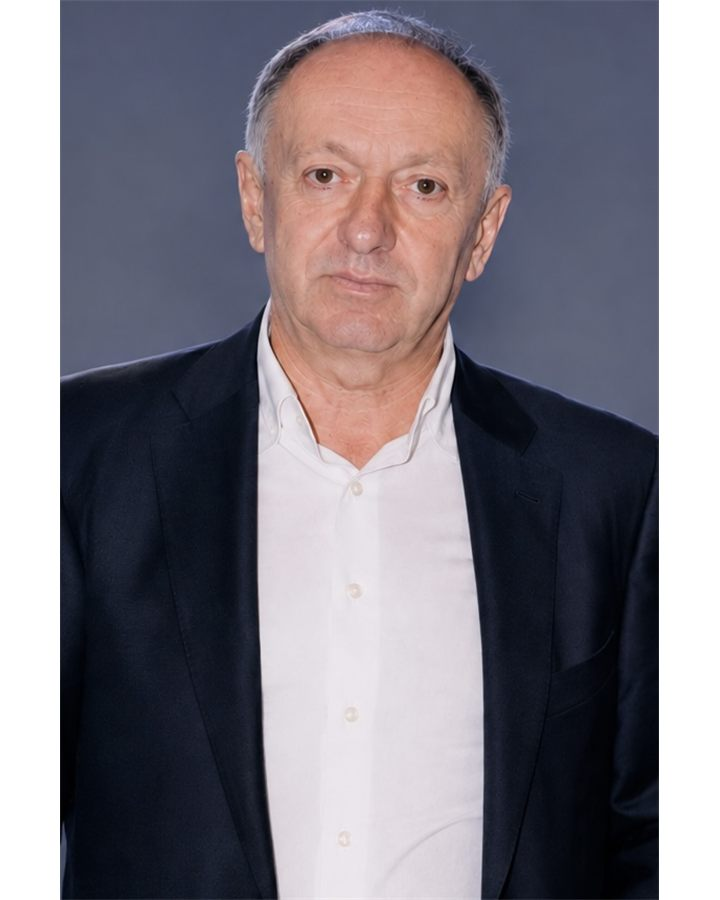
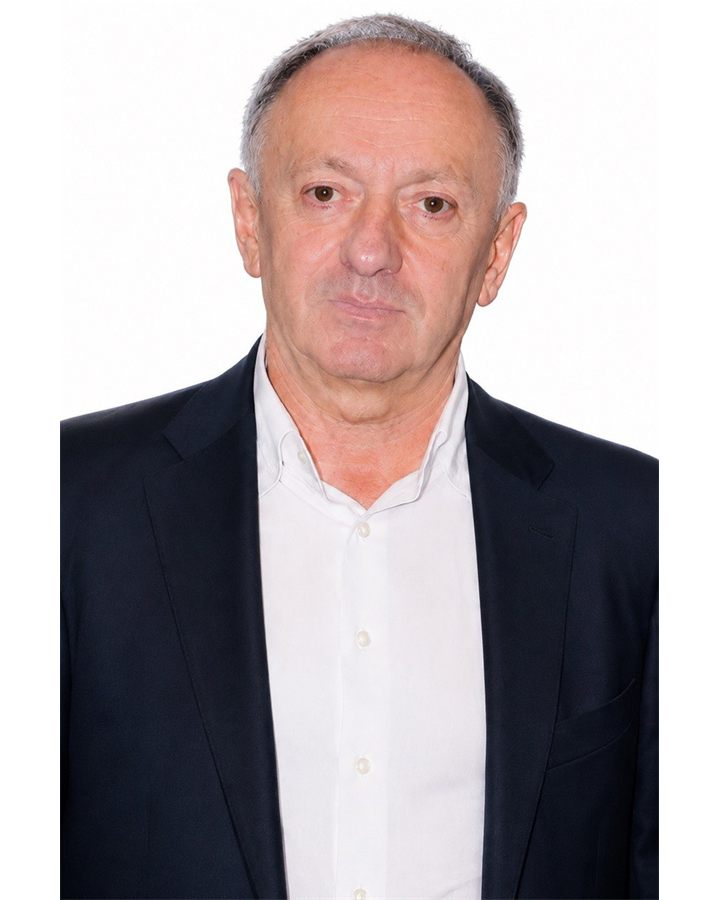
fix: publish approved Melnikov portrait

diff --git a/leadership/index.html b/leadership/index.html
@@ -1,1 +1,1 @@
-<!doctype html><html lang="ru"><head><meta charset="utf-8"><meta name="viewport" content="width=device-width,initial-scale=1"><title>Руководство — ФЕНКА</title><link rel="stylesheet" href="/shared/site-shell.css"><link rel="stylesheet" href="/shared/leadership-photos.css?v=20261114-profiles"></head><body><header class="global-header"><a class="global-brand" href="/"><img src="/fenka-logo-official.png" alt="ФЕНКА"></a><button class="global-menu-button" data-menu-toggle aria-expanded="false" aria-controls="siteNavigation"><span></span><span></span><span></span></button><nav class="global-nav" id="siteNavigation"><div class="global-nav-group"><button data-about-toggle aria-expanded="false" aria-controls="aboutMenu">О ФЕНКА</button><div class="global-submenu" id="aboutMenu" data-about-menu><a href="/about/">О ФЕНКА</a><a href="/leadership/" aria-current="page">Руководство</a><a href="/documents/">Документы</a><a href="/reports/">Отчётность</a></div></div><a href="/regions/">Регионы</a><a href="/projects/">Проекты</a><a href="/youth/">МолДеп</a><a href="/events/">События</a><a href="/media/">Медиатека</a><a href="/news/">Новости</a><a href="/contacts/">Контакты</a><a href="/support/">Помочь</a></nav></header><main id="main"><section class="section-hero section-hero--leadership"><div class="section-shell"><nav class="breadcrumbs"><a href="/">Главная</a><span>—</span><span>Руководство</span></nav><h1>Руководство и Совет ФЕНКА</h1></div></section><section class="section-content leadership-section"><div class="section-shell"><section class="leadership-featured" aria-label="Руководство ФЕНКА"><article class="leadership-card" data-leadership-id="melnikov"><div class="leadership-card__portrait leadership-card__portrait--melnikov"><img src="/leadership-photos/optimized/sergey-melnikov.jpg" alt="Мельников Сергей Евгеньевич" width="720" height="900" loading="eager" fetchpriority="high" decoding="async"></div><div class="leadership-card__content"><p class="leadership-card__number">01</p><p class="leadership-card__role">Президент</p><h3>Мельников Сергей Евгеньевич</h3><div class="leadership-card__contacts"><a href="mailto:info@fenkar.ru">info@fenkar.ru</a></div><button class="leadership-card__open" type="button" aria-label="Подробнее о Мельников Сергей Евгеньевич">Подробнее <span aria-hidden="true">→</span></button></div></article><article class="leadership-card" data-leadership-id="dabakarov"><div class="leadership-card__portrait leadership-card__portrait--dabakarov"><img src="/leadership-photos/optimized/igor-dabakarov.jpg" alt="Дабакаров Игорь Амнерович" width="720" height="900" loading="lazy" decoding="async"></div><div class="leadership-card__content"><p class="leadership-card__number">02</p><p class="leadership-card__role">Исполнительный Вице-президент</p><h3>Дабакаров Игорь Амнерович</h3><div class="leadership-card__contacts"><a href="mailto:ilezer@mail.ru">ilezer@mail.ru</a><a href="tel:+79603727613">+7 (960) 372-76-13</a></div><button class="leadership-card__open" type="button" aria-label="Подробнее о Дабакаров Игорь Амнерович">Подробнее <span aria-hidden="true">→</span></button></div></article></section><div class="leadership-divider"><span>Совет ФЕНКА</span><b>12 членов</b></div><section class="leadership-grid" aria-label="Члены Совета ФЕНКА"><article class="leadership-card" data-leadership-id="boroda"><div class="leadership-card__portrait leadership-card__portrait--boroda"><img src="/leadership-photos/optimized/alexander-boroda.jpg" alt="Борода Александр Моисеевич" width="720" height="900" loading="lazy" decoding="async"></div><div class="leadership-card__content"><p class="leadership-card__number">04</p><p class="leadership-card__role">Вице-президент</p><h3>Борода Александр Моисеевич</h3><div class="leadership-card__contacts"><a href="mailto:info@fenkar.ru">info@fenkar.ru</a></div><button class="leadership-card__open" type="button" aria-label="Подробнее о Борода Александр Моисеевич">Подробнее <span aria-hidden="true">→</span></button></div></article><article class="leadership-card" data-leadership-id="golukhov"><div class="leadership-card__portrait leadership-card__portrait--golukhov"><img src="/leadership-photos/optimized/georgy-golukhov.jpg" alt="Голухов Георгий Натанович" width="720" height="900" loading="lazy" decoding="async"></div><div class="leadership-card__content"><p class="leadership-card__number">05</p><p class="leadership-card__role">Вице-президент</p><h3>Голухов Георгий Натанович</h3><div class="leadership-card__contacts"><a href="mailto:info@fenkar.ru">info@fenkar.ru</a></div><button class="leadership-card__open" type="button" aria-label="Подробнее о Голухов Георгий Натанович">Подробнее <span aria-hidden="true">→</span></button></div></article><article class="leadership-card" data-leadership-id="zakharyaev"><div class="leadership-card__portrait leadership-card__portrait--zakharyaev"><img src="/leadership-photos/optimized/german-zakharyaev.jpg" alt="Захарьяев Герман Рашбилович" width="720" height="900" loading="lazy" decoding="async"></div><div class="leadership-card__content"><p class="leadership-card__number">03</p><p class="leadership-card__role">Вице-президент</p><h3>Захарьяев Герман Рашбилович</h3><div class="leadership-card__contacts"><a href="mailto:9261315959@bk.ru">9261315959@bk.ru</a><a href="tel:89261315959">8 (926) 131-59-59</a></div><button class="leadership-card__open" type="button" aria-label="Подробнее о Захарьяев Герман Рашбилович">Подробнее <span aria-hidden="true">→</span></button></div></article><article class="leadership-card" data-leadership-id="goldin"><div class="leadership-card__portrait leadership-card__portrait--goldin"><img src="/leadership-photos/optimized/mark-goldin.jpg" alt="Гольдин Марк Эльевич" width="720" height="900" loading="lazy" decoding="async"></div><div class="leadership-card__content"><p class="leadership-card__number">06</p><p class="leadership-card__role">Член Совета</p><h3>Гольдин Марк Эльевич</h3><div class="leadership-card__contacts"><a href="mailto:hesed-izhevsk@mail.ru">hesed-izhevsk@mail.ru</a><a href="tel:83412637778">8 (3412) 63-77-78</a></div><button class="leadership-card__open" type="button" aria-label="Подробнее о Гольдин Марк Эльевич">Подробнее <span aria-hidden="true">→</span></button></div></article><article class="leadership-card" data-leadership-id="oshtrakh"><div class="leadership-card__portrait leadership-card__portrait--oshtrakh"><img src="/leadership-photos/optimized/mikhail-oshtrakh.jpg" alt="Оштрах Михаил Иосифович" width="720" height="900" loading="lazy" decoding="async"></div><div class="leadership-card__content"><p class="leadership-card__number">07</p><p class="leadership-card__role">Член Совета</p><h3>Оштрах Михаил Иосифович</h3><div class="leadership-card__contacts"><a href="mailto:oshtrakh@gmail.com">oshtrakh@gmail.com</a><a href="tel:83433598309">8 (343) 359-83-09</a></div><button class="leadership-card__open" type="button" aria-label="Подробнее о Оштрах Михаил Иосифович">Подробнее <span aria-hidden="true">→</span></button></div></article><article class="leadership-card" data-leadership-id="engel"><div class="leadership-card__portrait" aria-hidden="true"><span>ЭВ</span></div><div class="leadership-card__content"><p class="leadership-card__number">08</p><p class="leadership-card__role">Член Совета</p><h3>Энгель Виктория Михайловна</h3><div class="leadership-card__contacts"><a href="mailto:vm.engel@mail.ru">vm.engel@mail.ru</a><a href="tel:84953090011704">8 (495) 309-00-11 доб. 704</a></div><button class="leadership-card__open" type="button" aria-label="Подробнее о Энгель Виктория Михайловна">Подробнее <span aria-hidden="true">→</span></button></div></article><article class="leadership-card" data-leadership-id="katsnelson"><div class="leadership-card__portrait leadership-card__portrait--katsnelson"><img src="/leadership-photos/optimized/gennady-katsnelson.jpg" alt="Кацнельсон Геннадий Борисович" width="720" height="900" loading="lazy" decoding="async"></div><div class="leadership-card__content"><p class="leadership-card__number">09</p><p class="leadership-card__role">Член Совета</p><h3>Кацнельсон Геннадий Борисович</h3><div class="leadership-card__contacts"><a href="mailto:info@fenkar.ru">info@fenkar.ru</a></div><button class="leadership-card__open" type="button" aria-label="Подробнее о Кацнельсон Геннадий Борисович">Подробнее <span aria-hidden="true">→</span></button></div></article><article class="leadership-card" data-leadership-id="yusfin"><div class="leadership-card__portrait leadership-card__portrait--yusfin"><img src="/leadership-photos/optimized/elena-yusfin.jpg" alt="Юсфин Елена Леонидовна" width="720" height="900" loading="lazy" decoding="async"></div><div class="leadership-card__content"><p class="leadership-card__number">10</p><p class="leadership-card__role">Член Совета</p><h3>Юсфин Елена Леонидовна</h3><div class="leadership-card__contacts"><a href="mailto:fenka613@gmail.ru">fenka613@gmail.ru</a></div><button class="leadership-card__open" type="button" aria-label="Подробнее о Юсфин Елена Леонидовна">Подробнее <span aria-hidden="true">→</span></button></div></article><article class="leadership-card" data-leadership-id="veysman"><div class="leadership-card__portrait leadership-card__portrait--veysman"><img src="/leadership-photos/optimized/irina-veysman.jpg" alt="Вейсман Ирина Зиновьевна" width="720" height="900" loading="lazy" decoding="async"></div><div class="leadership-card__content"><p class="leadership-card__number">11</p><p class="leadership-card__role">Член Совета</p><h3>Вейсман Ирина Зиновьевна</h3><div class="leadership-card__contacts"><a href="mailto:irinaveis@mail.ru">irinaveis@mail.ru</a><a href="tel:+79271341667">+7 927 134-16-67</a></div><button class="leadership-card__open" type="button" aria-label="Подробнее о Вейсман Ирина Зиновьевна">Подробнее <span aria-hidden="true">→</span></button></div></article><article class="leadership-card" data-leadership-id="litvak"><div class="leadership-card__portrait leadership-card__portrait--litvak"><img src="/leadership-photos/optimized/igor-litvak.jpg" alt="Литвак Игорь Маркович" width="720" height="900" loading="lazy" decoding="async"></div><div class="leadership-card__content"><p class="leadership-card__number">12</p><p class="leadership-card__role">Член Совета</p><h3>Литвак Игорь Маркович</h3><div class="leadership-card__contacts"><a href="mailto:info@fenkar.ru">info@fenkar.ru</a></div><button class="leadership-card__open" type="button" aria-label="Подробнее о Литвак Игорь Маркович">Подробнее <span aria-hidden="true">→</span></button></div></article><article class="leadership-card" data-leadership-id="tipikin"><div class="leadership-card__portrait leadership-card__portrait--tipikin"><img src="/leadership-photos/optimized/pavel-tipikin.jpg" alt="Типикин Павел Николаевич" width="720" height="900" loading="lazy" decoding="async"></div><div class="leadership-card__content"><p class="leadership-card__number">13</p><p class="leadership-card__role">Член Совета</p><h3>Типикин Павел Николаевич</h3><div class="leadership-card__contacts"><a href="mailto:info@fenkar.ru">info@fenkar.ru</a></div><button class="leadership-card__open" type="button" aria-label="Подробнее о Типикин Павел Николаевич">Подробнее <span aria-hidden="true">→</span></button></div></article><article class="leadership-card" data-leadership-id="shalmiev"><div class="leadership-card__portrait leadership-card__portrait--shalmiev"><img src="/leadership-photos/optimized/erukhom-shalmiev.jpg" alt="Шальмиев Ерухом Илизирович" width="720" height="900" loading="lazy" decoding="async"></div><div class="leadership-card__content"><p class="leadership-card__number">14</p><p class="leadership-card__role">Член Совета</p><h3>Шальмиев Ерухом Илизирович</h3><div class="leadership-card__contacts"><a href="mailto:info@fenkar.ru">info@fenkar.ru</a></div><button class="leadership-card__open" type="button" aria-label="Подробнее о Шальмиев Ерухом Илизирович">Подробнее <span aria-hidden="true">→</span></button></div></article></section></div></section></main><footer class="global-footer"><div><img src="/fenka-logo-official.png" alt="ФЕНКА"><p>Люди. Культура. Развитие.</p></div><nav><a href="/regions/">Регионы</a><a href="/leadership/">Руководство</a><a href="/documents/">Документы</a><a href="/reports/">Отчётность</a><a href="/about/">О ФЕНКА</a><a href="/projects/">Проекты</a><a href="/youth/">Молодёжный департамент ФЕНКА</a><a href="/events/">События</a><a href="/media/">Медиатека</a><a href="/news/">Новости</a><a href="/support/">Помочь</a><a href="/contacts/">Контакты</a><a href="/privacy/">Политика конфиденциальности</a></nav><div class="global-footer__social"><strong>Социальные сети</strong><a href="https://vk.ru/fenkarus?ysclid=mue1bx5o93573807833" target="_blank" rel="noopener noreferrer">ВКонтакте</a><a href="https://t.me/fenkarus" target="_blank" rel="noopener noreferrer">Telegram</a><a href="https://max.ru/join/t1856SKfg2tv8TdYnIjARxurVWQK_ATuRZmt5hLfPoo" target="_blank" rel="noopener noreferrer">MAX</a></div></footer><script src="/shared/site-shell.js"></script><dialog class="leadership-profile" id="leadershipProfileDialog" aria-labelledby="leadershipProfileName"><div class="leadership-profile__shell"><button class="leadership-profile__close" type="button" data-profile-close aria-label="Закрыть">×</button><aside class="leadership-profile__aside"><div class="leadership-profile__portrait" data-profile-portrait><img alt="" width="720" height="900"><span aria-hidden="true"></span></div><p class="leadership-profile__role" data-profile-role></p></aside><article class="leadership-profile__body"><p class="leadership-profile__eyebrow">Руководство ФЕНКА</p><h2 id="leadershipProfileName"></h2><section class="leadership-profile__statement" data-profile-statement hidden><p class="leadership-profile__statement-label">Слово президента</p><blockquote></blockquote></section><div class="leadership-profile__biography" data-profile-biography></div><div class="leadership-profile__contacts" data-profile-contacts></div></article></div></dialog><script type="application/json" id="leadershipProfilesData">{"melnikov":{"name":"Мельников Сергей Евгеньевич","role":"Президент","email":"info@fenkar.ru","phone":"","statement":"Сохраняя многовековые традиции еврейского народа, мы не просто бережём прошлое — мы закладываем фундамент будущего. Наша миссия — объединять поколения, укреплять общины и создавать новые возможности для развития еврейской жизни в России. Ведь народ силён, пока жива его память, крепко его единство и есть кому продолжить его дело.","biography":["Мельников Сергей Евгеньевич родился 22 августа 1959 года в г. Москве.","В 1976 году поступил в Московский химико-технологический институт им. Д. И. Менделеева на факультет неорганической химии, который окончил в 1982 году и поступил на работу на опытный завод НИУИФ, где прошёл путь от мастера смены до заместителя начальника цеха по производству удобрений.","В 1988 году поступил в Академию внешней торговли и после её окончания перешёл на работу в Союзагрохимэкспорт. Одновременно в 1988 году защитил диссертацию и получил звание кандидата технических наук.","В Союзагрохимэкспорте прошёл путь от старшего инженера фирмы «Карбамид» до её директора, а позже стал заместителем генерального директора. Работал в Австрии генеральным директором фирмы «Уритранс».","Является действительным членом Международной академии наук, экологии, безопасности человека и природы. Свободно владеет английским языком.","С 2023 года является Президентом общественной организации «Федеральная еврейская национально-культурная автономия» (ОО «ФЕНКА») и членом Совета при Президенте Российской Федерации по межнациональным отношениям."]},"dabakarov":{"name":"Дабакаров Игорь Амнерович","role":"Исполнительный Вице-президент","email":"ilezer@mail.ru","phone":"+7 (960) 372-76-13","biography":["Член Совета ФЕНКА, Генеральный директор, Председатель Правления Ульяновской РЕНКА.","Родился 2 сентября 1975г. в г.Самарканде.","В 1996 году создал Ульяновскую городскую общественную организацию — еврейский молодёжный клуб «Мишпаха Гдола». В 1997 году зарегистрировал и по сей день является президентом этой организации.","С 2000 года является председателем правления Ульяновской еврейской культурно-просветительской общественной организации «Шалом». С 2004 года избран председателем правления Ульяновской региональной еврейской национально-культурной автономии.","С 2010 года — Президент Российского еврейского молодёжного конгресса. За успешную работу по организации еврейской жизни неоднократно награждался премиями Американского еврейского распределительного комитета «Джоинт», «Банчер», Федерации еврейских общин России, награждён премией Чарльза Хоффана как лучший руководитель еврейской общины России.","Является членом Совета по делам национальностей при Губернаторе Ульяновской области, членом Генеральной Ассамблеи Евроазиатского еврейского конгресса, депутатом Европейского еврейского парламента, членом Общественной палаты Ульяновской области, членом Совета и Генеральным директором ФЕНКА.","Воспитывает троих детей."]},"zakharyaev":{"name":"Захарьяев Герман Рашбилович","role":"Вице-президент","email":"9261315959@bk.ru","phone":"8 (926) 131-59-59","biography":["Герман Рашбилович Захарьяев — известный бизнесмен и меценат, вице-президент Всемирного конгресса горских евреев, президент Международного благотворительного фонда горских евреев СТМЭГИ.","Родился 7 июля 1971 года в поселке Красная (Еврейская) Слобода, г. Куба, в Азербайджане. В начале 1990-х годов переехал в Москву.","Окончил Российскую академию народного хозяйства и государственной службы при Президенте РФ. Защитил диссертацию по теме «Эволюция религиозно-теологической концепции хасидизма» и получил степень кандидата философских наук.","В августе 2001 года семьёй Захарьяевых был создан и зарегистрирован Региональный общественный фонд горских евреев СТМЭГИ. Цель фонда — продвижение проектов, направленных на развитие общинной жизни, сохранение и укрепление традиций горских евреев.","На базе фонда появился Международный благотворительный фонд горских евреев, поддерживающий общинную жизнь во многих странах. Представительства СТМЭГИ работают в России, Израиле, Азербайджане и США.","При поддержке Германа Захарьяева произведения Шолом-Алейхема были изданы на азербайджанском языке. В 2011 году при его активном участии была создана первая социальная сеть горских евреев.","Герман Захарьяев выступил инициатором внесения в еврейский календарь памятной даты «Йом шихрур вэ ацала» — Дня спасения и освобождения. Женат, воспитывает четверых детей."]},"boroda":{"name":"Борода Александр Моисеевич","role":"Вице-президент","email":"info@fenkar.ru","phone":"","biography":[]},"golukhov":{"name":"Голухов Георгий Натанович","role":"Вице-президент","email":"info@fenkar.ru","phone":"","biography":["Родился 24 июня 1960 года в городе Москва.","В 1983 году окончил 2-й Московский ордена Ленина государственный медицинский институт им. Н. И. Пирогова, а в 2002 году — Академию народного хозяйства при Правительстве Российской Федерации.","С 1988 по 2012 год — главный врач Городской клинической больницы № 31 Департамента здравоохранения города Москвы.","С мая 2012 по октябрь 2014 года — Министр Правительства Москвы, руководитель Департамента здравоохранения города Москвы. С октября 2014 по январь 2015 года — президент Научно-исследовательского института организации здравоохранения и медицинского менеджмента Департамента здравоохранения города Москвы.","С января 2015 года — президент Городской клинической больницы № 31. Доктор медицинских наук, профессор, член-корреспондент Российской академии наук, полковник медицинской службы.","Награждён Орденом Дружбы, медалью «В память 850-летия Москвы», Золотым Почётным знаком «Общественное признание», знаком «Отличник здравоохранения» и другими наградами. Автор 103 печатных работ, в том числе 11 монографий."]},"goldin":{"name":"Гольдин Марк Эльевич","role":"Член Совета","email":"hesed-izhevsk@mail.ru","phone":"8 (3412) 63-77-78","biography":["Президент ЕНКА Удмуртской Республики."]},"oshtrakh":{"name":"Оштрах Михаил Иосифович","role":"Член Совета","email":"oshtrakh@gmail.com","phone":"8 (343) 359-83-09","biography":["Президент ЕНКА Свердловской области"]},"engel":{"name":"Энгель Виктория Михайловна","role":"Член Совета","email":"vm.engel@mail.ru","phone":"8 (495) 309-00-11 доб. 704","biography":[]},"katsnelson":{"name":"Кацнельсон Геннадий Борисович","role":"Член Совета","email":"info@fenkar.ru","phone":"","biography":["Крупный предприниматель, который руководит многопрофильным бизнесом в Самаре и Самарской области. Также известен своей благотворительной деятельностью."]},"yusfin":{"name":"Юсфин Елена Леонидовна","role":"Член Совета","email":"fenka613@gmail.ru","phone":"","biography":[]},"veysman":{"name":"Вейсман Ирина Зиновьевна","role":"Член Совета","email":"irinaveis@mail.ru","phone":"+7 927 134-16-67","biography":[]},"litvak":{"name":"Литвак Игорь Маркович","role":"Член Совета","email":"info@fenkar.ru","phone":"","biography":[]},"tipikin":{"name":"Типикин Павел Николаевич","role":"Член Совета","email":"info@fenkar.ru","phone":"","biography":[]},"shalmiev":{"name":"Шальмиев Ерухом Илизирович","role":"Член Совета","email":"info@fenkar.ru","phone":"","biography":[]}}</script><script src="/shared/leadership-profiles.js?v=20261114-profiles"></script></body></html>
+<!doctype html><html lang="ru"><head><meta charset="utf-8"><meta name="viewport" content="width=device-width,initial-scale=1"><title>Руководство — ФЕНКА</title><link rel="stylesheet" href="/shared/site-shell.css"><link rel="stylesheet" href="/shared/leadership-photos.css?v=20261114-profiles"></head><body><header class="global-header"><a class="global-brand" href="/"><img src="/fenka-logo-official.png" alt="ФЕНКА"></a><button class="global-menu-button" data-menu-toggle aria-expanded="false" aria-controls="siteNavigation"><span></span><span></span><span></span></button><nav class="global-nav" id="siteNavigation"><div class="global-nav-group"><button data-about-toggle aria-expanded="false" aria-controls="aboutMenu">О ФЕНКА</button><div class="global-submenu" id="aboutMenu" data-about-menu><a href="/about/">О ФЕНКА</a><a href="/leadership/" aria-current="page">Руководство</a><a href="/documents/">Документы</a><a href="/reports/">Отчётность</a></div></div><a href="/regions/">Регионы</a><a href="/projects/">Проекты</a><a href="/youth/">МолДеп</a><a href="/events/">События</a><a href="/media/">Медиатека</a><a href="/news/">Новости</a><a href="/contacts/">Контакты</a><a href="/support/">Помочь</a></nav></header><main id="main"><section class="section-hero section-hero--leadership"><div class="section-shell"><nav class="breadcrumbs"><a href="/">Главная</a><span>—</span><span>Руководство</span></nav><h1>Руководство и Совет ФЕНКА</h1></div></section><section class="section-content leadership-section"><div class="section-shell"><section class="leadership-featured" aria-label="Руководство ФЕНКА"><article class="leadership-card" data-leadership-id="melnikov"><div class="leadership-card__portrait leadership-card__portrait--melnikov"><img src="/leadership-photos/optimized/sergey-melnikov.jpg?v=20261114-melnikov2" alt="Мельников Сергей Евгеньевич" width="720" height="900" loading="eager" fetchpriority="high" decoding="async"></div><div class="leadership-card__content"><p class="leadership-card__number">01</p><p class="leadership-card__role">Президент</p><h3>Мельников Сергей Евгеньевич</h3><div class="leadership-card__contacts"><a href="mailto:info@fenkar.ru">info@fenkar.ru</a></div><button class="leadership-card__open" type="button" aria-label="Подробнее о Мельников Сергей Евгеньевич">Подробнее <span aria-hidden="true">→</span></button></div></article><article class="leadership-card" data-leadership-id="dabakarov"><div class="leadership-card__portrait leadership-card__portrait--dabakarov"><img src="/leadership-photos/optimized/igor-dabakarov.jpg" alt="Дабакаров Игорь Амнерович" width="720" height="900" loading="lazy" decoding="async"></div><div class="leadership-card__content"><p class="leadership-card__number">02</p><p class="leadership-card__role">Исполнительный Вице-президент</p><h3>Дабакаров Игорь Амнерович</h3><div class="leadership-card__contacts"><a href="mailto:ilezer@mail.ru">ilezer@mail.ru</a><a href="tel:+79603727613">+7 (960) 372-76-13</a></div><button class="leadership-card__open" type="button" aria-label="Подробнее о Дабакаров Игорь Амнерович">Подробнее <span aria-hidden="true">→</span></button></div></article></section><div class="leadership-divider"><span>Совет ФЕНКА</span><b>12 членов</b></div><section class="leadership-grid" aria-label="Члены Совета ФЕНКА"><article class="leadership-card" data-leadership-id="boroda"><div class="leadership-card__portrait leadership-card__portrait--boroda"><img src="/leadership-photos/optimized/alexander-boroda.jpg" alt="Борода Александр Моисеевич" width="720" height="900" loading="lazy" decoding="async"></div><div class="leadership-card__content"><p class="leadership-card__number">04</p><p class="leadership-card__role">Вице-президент</p><h3>Борода Александр Моисеевич</h3><div class="leadership-card__contacts"><a href="mailto:info@fenkar.ru">info@fenkar.ru</a></div><button class="leadership-card__open" type="button" aria-label="Подробнее о Борода Александр Моисеевич">Подробнее <span aria-hidden="true">→</span></button></div></article><article class="leadership-card" data-leadership-id="golukhov"><div class="leadership-card__portrait leadership-card__portrait--golukhov"><img src="/leadership-photos/optimized/georgy-golukhov.jpg" alt="Голухов Георгий Натанович" width="720" height="900" loading="lazy" decoding="async"></div><div class="leadership-card__content"><p class="leadership-card__number">05</p><p class="leadership-card__role">Вице-президент</p><h3>Голухов Георгий Натанович</h3><div class="leadership-card__contacts"><a href="mailto:info@fenkar.ru">info@fenkar.ru</a></div><button class="leadership-card__open" type="button" aria-label="Подробнее о Голухов Георгий Натанович">Подробнее <span aria-hidden="true">→</span></button></div></article><article class="leadership-card" data-leadership-id="zakharyaev"><div class="leadership-card__portrait leadership-card__portrait--zakharyaev"><img src="/leadership-photos/optimized/german-zakharyaev.jpg" alt="Захарьяев Герман Рашбилович" width="720" height="900" loading="lazy" decoding="async"></div><div class="leadership-card__content"><p class="leadership-card__number">03</p><p class="leadership-card__role">Вице-президент</p><h3>Захарьяев Герман Рашбилович</h3><div class="leadership-card__contacts"><a href="mailto:9261315959@bk.ru">9261315959@bk.ru</a><a href="tel:89261315959">8 (926) 131-59-59</a></div><button class="leadership-card__open" type="button" aria-label="Подробнее о Захарьяев Герман Рашбилович">Подробнее <span aria-hidden="true">→</span></button></div></article><article class="leadership-card" data-leadership-id="goldin"><div class="leadership-card__portrait leadership-card__portrait--goldin"><img src="/leadership-photos/optimized/mark-goldin.jpg" alt="Гольдин Марк Эльевич" width="720" height="900" loading="lazy" decoding="async"></div><div class="leadership-card__content"><p class="leadership-card__number">06</p><p class="leadership-card__role">Член Совета</p><h3>Гольдин Марк Эльевич</h3><div class="leadership-card__contacts"><a href="mailto:hesed-izhevsk@mail.ru">hesed-izhevsk@mail.ru</a><a href="tel:83412637778">8 (3412) 63-77-78</a></div><button class="leadership-card__open" type="button" aria-label="Подробнее о Гольдин Марк Эльевич">Подробнее <span aria-hidden="true">→</span></button></div></article><article class="leadership-card" data-leadership-id="oshtrakh"><div class="leadership-card__portrait leadership-card__portrait--oshtrakh"><img src="/leadership-photos/optimized/mikhail-oshtrakh.jpg" alt="Оштрах Михаил Иосифович" width="720" height="900" loading="lazy" decoding="async"></div><div class="leadership-card__content"><p class="leadership-card__number">07</p><p class="leadership-card__role">Член Совета</p><h3>Оштрах Михаил Иосифович</h3><div class="leadership-card__contacts"><a href="mailto:oshtrakh@gmail.com">oshtrakh@gmail.com</a><a href="tel:83433598309">8 (343) 359-83-09</a></div><button class="leadership-card__open" type="button" aria-label="Подробнее о Оштрах Михаил Иосифович">Подробнее <span aria-hidden="true">→</span></button></div></article><article class="leadership-card" data-leadership-id="engel"><div class="leadership-card__portrait" aria-hidden="true"><span>ЭВ</span></div><div class="leadership-card__content"><p class="leadership-card__number">08</p><p class="leadership-card__role">Член Совета</p><h3>Энгель Виктория Михайловна</h3><div class="leadership-card__contacts"><a href="mailto:vm.engel@mail.ru">vm.engel@mail.ru</a><a href="tel:84953090011704">8 (495) 309-00-11 доб. 704</a></div><button class="leadership-card__open" type="button" aria-label="Подробнее о Энгель Виктория Михайловна">Подробнее <span aria-hidden="true">→</span></button></div></article><article class="leadership-card" data-leadership-id="katsnelson"><div class="leadership-card__portrait leadership-card__portrait--katsnelson"><img src="/leadership-photos/optimized/gennady-katsnelson.jpg" alt="Кацнельсон Геннадий Борисович" width="720" height="900" loading="lazy" decoding="async"></div><div class="leadership-card__content"><p class="leadership-card__number">09</p><p class="leadership-card__role">Член Совета</p><h3>Кацнельсон Геннадий Борисович</h3><div class="leadership-card__contacts"><a href="mailto:info@fenkar.ru">info@fenkar.ru</a></div><button class="leadership-card__open" type="button" aria-label="Подробнее о Кацнельсон Геннадий Борисович">Подробнее <span aria-hidden="true">→</span></button></div></article><article class="leadership-card" data-leadership-id="yusfin"><div class="leadership-card__portrait leadership-card__portrait--yusfin"><img src="/leadership-photos/optimized/elena-yusfin.jpg" alt="Юсфин Елена Леонидовна" width="720" height="900" loading="lazy" decoding="async"></div><div class="leadership-card__content"><p class="leadership-card__number">10</p><p class="leadership-card__role">Член Совета</p><h3>Юсфин Елена Леонидовна</h3><div class="leadership-card__contacts"><a href="mailto:fenka613@gmail.ru">fenka613@gmail.ru</a></div><button class="leadership-card__open" type="button" aria-label="Подробнее о Юсфин Елена Леонидовна">Подробнее <span aria-hidden="true">→</span></button></div></article><article class="leadership-card" data-leadership-id="veysman"><div class="leadership-card__portrait leadership-card__portrait--veysman"><img src="/leadership-photos/optimized/irina-veysman.jpg" alt="Вейсман Ирина Зиновьевна" width="720" height="900" loading="lazy" decoding="async"></div><div class="leadership-card__content"><p class="leadership-card__number">11</p><p class="leadership-card__role">Член Совета</p><h3>Вейсман Ирина Зиновьевна</h3><div class="leadership-card__contacts"><a href="mailto:irinaveis@mail.ru">irinaveis@mail.ru</a><a href="tel:+79271341667">+7 927 134-16-67</a></div><button class="leadership-card__open" type="button" aria-label="Подробнее о Вейсман Ирина Зиновьевна">Подробнее <span aria-hidden="true">→</span></button></div></article><article class="leadership-card" data-leadership-id="litvak"><div class="leadership-card__portrait leadership-card__portrait--litvak"><img src="/leadership-photos/optimized/igor-litvak.jpg" alt="Литвак Игорь Маркович" width="720" height="900" loading="lazy" decoding="async"></div><div class="leadership-card__content"><p class="leadership-card__number">12</p><p class="leadership-card__role">Член Совета</p><h3>Литвак Игорь Маркович</h3><div class="leadership-card__contacts"><a href="mailto:info@fenkar.ru">info@fenkar.ru</a></div><button class="leadership-card__open" type="button" aria-label="Подробнее о Литвак Игорь Маркович">Подробнее <span aria-hidden="true">→</span></button></div></article><article class="leadership-card" data-leadership-id="tipikin"><div class="leadership-card__portrait leadership-card__portrait--tipikin"><img src="/leadership-photos/optimized/pavel-tipikin.jpg" alt="Типикин Павел Николаевич" width="720" height="900" loading="lazy" decoding="async"></div><div class="leadership-card__content"><p class="leadership-card__number">13</p><p class="leadership-card__role">Член Совета</p><h3>Типикин Павел Николаевич</h3><div class="leadership-card__contacts"><a href="mailto:info@fenkar.ru">info@fenkar.ru</a></div><button class="leadership-card__open" type="button" aria-label="Подробнее о Типикин Павел Николаевич">Подробнее <span aria-hidden="true">→</span></button></div></article><article class="leadership-card" data-leadership-id="shalmiev"><div class="leadership-card__portrait leadership-card__portrait--shalmiev"><img src="/leadership-photos/optimized/erukhom-shalmiev.jpg" alt="Шальмиев Ерухом Илизирович" width="720" height="900" loading="lazy" decoding="async"></div><div class="leadership-card__content"><p class="leadership-card__number">14</p><p class="leadership-card__role">Член Совета</p><h3>Шальмиев Ерухом Илизирович</h3><div class="leadership-card__contacts"><a href="mailto:info@fenkar.ru">info@fenkar.ru</a></div><button class="leadership-card__open" type="button" aria-label="Подробнее о Шальмиев Ерухом Илизирович">Подробнее <span aria-hidden="true">→</span></button></div></article></section></div></section></main><footer class="global-footer"><div><img src="/fenka-logo-official.png" alt="ФЕНКА"><p>Люди. Культура. Развитие.</p></div><nav><a href="/regions/">Регионы</a><a href="/leadership/">Руководство</a><a href="/documents/">Документы</a><a href="/reports/">Отчётность</a><a href="/about/">О ФЕНКА</a><a href="/projects/">Проекты</a><a href="/youth/">Молодёжный департамент ФЕНКА</a><a href="/events/">События</a><a href="/media/">Медиатека</a><a href="/news/">Новости</a><a href="/support/">Помочь</a><a href="/contacts/">Контакты</a><a href="/privacy/">Политика конфиденциальности</a></nav><div class="global-footer__social"><strong>Социальные сети</strong><a href="https://vk.ru/fenkarus?ysclid=mue1bx5o93573807833" target="_blank" rel="noopener noreferrer">ВКонтакте</a><a href="https://t.me/fenkarus" target="_blank" rel="noopener noreferrer">Telegram</a><a href="https://max.ru/join/t1856SKfg2tv8TdYnIjARxurVWQK_ATuRZmt5hLfPoo" target="_blank" rel="noopener noreferrer">MAX</a></div></footer><script src="/shared/site-shell.js"></script><dialog class="leadership-profile" id="leadershipProfileDialog" aria-labelledby="leadershipProfileName"><div class="leadership-profile__shell"><button class="leadership-profile__close" type="button" data-profile-close aria-label="Закрыть">×</button><aside class="leadership-profile__aside"><div class="leadership-profile__portrait" data-profile-portrait><img alt="" width="720" height="900"><span aria-hidden="true"></span></div><p class="leadership-profile__role" data-profile-role></p></aside><article class="leadership-profile__body"><p class="leadership-profile__eyebrow">Руководство ФЕНКА</p><h2 id="leadershipProfileName"></h2><section class="leadership-profile__statement" data-profile-statement hidden><p class="leadership-profile__statement-label">Слово президента</p><blockquote></blockquote></section><div class="leadership-profile__biography" data-profile-biography></div><div class="leadership-profile__contacts" data-profile-contacts></div></article></div></dialog><script type="application/json" id="leadershipProfilesData">{"melnikov":{"name":"Мельников Сергей Евгеньевич","role":"Президент","email":"info@fenkar.ru","phone":"","statement":"Сохраняя многовековые традиции еврейского народа, мы не просто бережём прошлое — мы закладываем фундамент будущего. Наша миссия — объединять поколения, укреплять общины и создавать новые возможности для развития еврейской жизни в России. Ведь народ силён, пока жива его память, крепко его единство и есть кому продолжить его дело.","biography":["Мельников Сергей Евгеньевич родился 22 августа 1959 года в г. Москве.","В 1976 году поступил в Московский химико-технологический институт им. Д. И. Менделеева на факультет неорганической химии, который окончил в 1982 году и поступил на работу на опытный завод НИУИФ, где прошёл путь от мастера смены до заместителя начальника цеха по производству удобрений.","В 1988 году поступил в Академию внешней торговли и после её окончания перешёл на работу в Союзагрохимэкспорт. Одновременно в 1988 году защитил диссертацию и получил звание кандидата технических наук.","В Союзагрохимэкспорте прошёл путь от старшего инженера фирмы «Карбамид» до её директора, а позже стал заместителем генерального директора. Работал в Австрии генеральным директором фирмы «Уритранс».","Является действительным членом Международной академии наук, экологии, безопасности человека и природы. Свободно владеет английским языком.","С 2023 года является Президентом общественной организации «Федеральная еврейская национально-культурная автономия» (ОО «ФЕНКА») и членом Совета при Президенте Российской Федерации по межнациональным отношениям."]},"dabakarov":{"name":"Дабакаров Игорь Амнерович","role":"Исполнительный Вице-президент","email":"ilezer@mail.ru","phone":"+7 (960) 372-76-13","biography":["Член Совета ФЕНКА, Генеральный директор, Председатель Правления Ульяновской РЕНКА.","Родился 2 сентября 1975г. в г.Самарканде.","В 1996 году создал Ульяновскую городскую общественную организацию — еврейский молодёжный клуб «Мишпаха Гдола». В 1997 году зарегистрировал и по сей день является президентом этой организации.","С 2000 года является председателем правления Ульяновской еврейской культурно-просветительской общественной организации «Шалом». С 2004 года избран председателем правления Ульяновской региональной еврейской национально-культурной автономии.","С 2010 года — Президент Российского еврейского молодёжного конгресса. За успешную работу по организации еврейской жизни неоднократно награждался премиями Американского еврейского распределительного комитета «Джоинт», «Банчер», Федерации еврейских общин России, награждён премией Чарльза Хоффана как лучший руководитель еврейской общины России.","Является членом Совета по делам национальностей при Губернаторе Ульяновской области, членом Генеральной Ассамблеи Евроазиатского еврейского конгресса, депутатом Европейского еврейского парламента, членом Общественной палаты Ульяновской области, членом Совета и Генеральным директором ФЕНКА.","Воспитывает троих детей."]},"zakharyaev":{"name":"Захарьяев Герман Рашбилович","role":"Вице-президент","email":"9261315959@bk.ru","phone":"8 (926) 131-59-59","biography":["Герман Рашбилович Захарьяев — известный бизнесмен и меценат, вице-президент Всемирного конгресса горских евреев, президент Международного благотворительного фонда горских евреев СТМЭГИ.","Родился 7 июля 1971 года в поселке Красная (Еврейская) Слобода, г. Куба, в Азербайджане. В начале 1990-х годов переехал в Москву.","Окончил Российскую академию народного хозяйства и государственной службы при Президенте РФ. Защитил диссертацию по теме «Эволюция религиозно-теологической концепции хасидизма» и получил степень кандидата философских наук.","В августе 2001 года семьёй Захарьяевых был создан и зарегистрирован Региональный общественный фонд горских евреев СТМЭГИ. Цель фонда — продвижение проектов, направленных на развитие общинной жизни, сохранение и укрепление традиций горских евреев.","На базе фонда появился Международный благотворительный фонд горских евреев, поддерживающий общинную жизнь во многих странах. Представительства СТМЭГИ работают в России, Израиле, Азербайджане и США.","При поддержке Германа Захарьяева произведения Шолом-Алейхема были изданы на азербайджанском языке. В 2011 году при его активном участии была создана первая социальная сеть горских евреев.","Герман Захарьяев выступил инициатором внесения в еврейский календарь памятной даты «Йом шихрур вэ ацала» — Дня спасения и освобождения. Женат, воспитывает четверых детей."]},"boroda":{"name":"Борода Александр Моисеевич","role":"Вице-президент","email":"info@fenkar.ru","phone":"","biography":[]},"golukhov":{"name":"Голухов Георгий Натанович","role":"Вице-президент","email":"info@fenkar.ru","phone":"","biography":["Родился 24 июня 1960 года в городе Москва.","В 1983 году окончил 2-й Московский ордена Ленина государственный медицинский институт им. Н. И. Пирогова, а в 2002 году — Академию народного хозяйства при Правительстве Российской Федерации.","С 1988 по 2012 год — главный врач Городской клинической больницы № 31 Департамента здравоохранения города Москвы.","С мая 2012 по октябрь 2014 года — Министр Правительства Москвы, руководитель Департамента здравоохранения города Москвы. С октября 2014 по январь 2015 года — президент Научно-исследовательского института организации здравоохранения и медицинского менеджмента Департамента здравоохранения города Москвы.","С января 2015 года — президент Городской клинической больницы № 31. Доктор медицинских наук, профессор, член-корреспондент Российской академии наук, полковник медицинской службы.","Награждён Орденом Дружбы, медалью «В память 850-летия Москвы», Золотым Почётным знаком «Общественное признание», знаком «Отличник здравоохранения» и другими наградами. Автор 103 печатных работ, в том числе 11 монографий."]},"goldin":{"name":"Гольдин Марк Эльевич","role":"Член Совета","email":"hesed-izhevsk@mail.ru","phone":"8 (3412) 63-77-78","biography":["Президент ЕНКА Удмуртской Республики."]},"oshtrakh":{"name":"Оштрах Михаил Иосифович","role":"Член Совета","email":"oshtrakh@gmail.com","phone":"8 (343) 359-83-09","biography":["Президент ЕНКА Свердловской области"]},"engel":{"name":"Энгель Виктория Михайловна","role":"Член Совета","email":"vm.engel@mail.ru","phone":"8 (495) 309-00-11 доб. 704","biography":[]},"katsnelson":{"name":"Кацнельсон Геннадий Борисович","role":"Член Совета","email":"info@fenkar.ru","phone":"","biography":["Крупный предприниматель, который руководит многопрофильным бизнесом в Самаре и Самарской области. Также известен своей благотворительной деятельностью."]},"yusfin":{"name":"Юсфин Елена Леонидовна","role":"Член Совета","email":"fenka613@gmail.ru","phone":"","biography":[]},"veysman":{"name":"Вейсман Ирина Зиновьевна","role":"Член Совета","email":"irinaveis@mail.ru","phone":"+7 927 134-16-67","biography":[]},"litvak":{"name":"Литвак Игорь Маркович","role":"Член Совета","email":"info@fenkar.ru","phone":"","biography":[]},"tipikin":{"name":"Типикин Павел Николаевич","role":"Член Совета","email":"info@fenkar.ru","phone":"","biography":[]},"shalmiev":{"name":"Шальмиев Ерухом Илизирович","role":"Член Совета","email":"info@fenkar.ru","phone":"","biography":[]}}</script><script src="/shared/leadership-profiles.js?v=20261114-profiles"></script></body></html>
